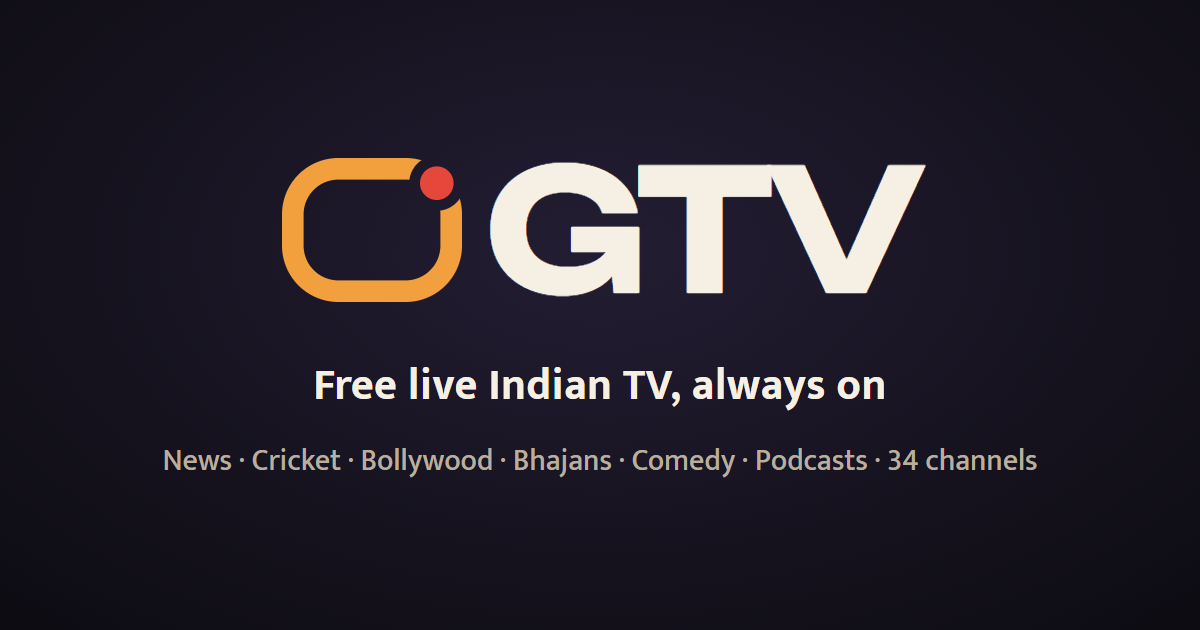
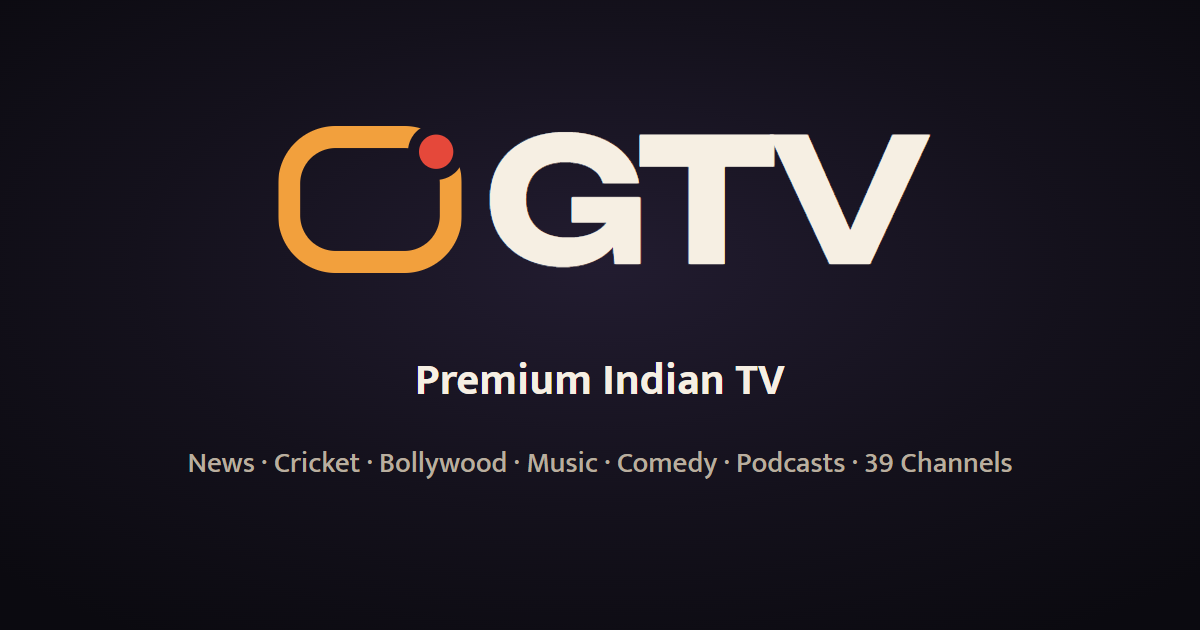
Share image: Premium Indian TV · News, Cricket, Bollywood, Music, Comedy, Podcasts, 39 Channels (versioned so link previews refresh)

Changed region(s): [[0.2158, 0.181, 0.7708, 0.4825], [0.1233, 0.6937, 0.8633, 0.754], [0.2467, 0.573, 0.74, 0.6635]]

diff --git a/tv/international-sports/index.html b/tv/international-sports/index.html
@@ -15,7 +15,7 @@
 <meta property="og:title" content="International Sports: Olympics, F1, tennis &amp; world fixtures | OGTV free Indian TV">
 <meta property="og:description" content="International Sports on OGTV: Olympics, F1, tennis &amp; world fixtures, free and always on. Videos from ATP Tour, NHL, PGA Tour and MotoGP.">
 <meta property="og:url" content="https://ogtv.thebharat.si/tv/international-sports/">
-<meta property="og:image" content="https://ogtv.thebharat.si/img/og.png">
+<meta property="og:image" content="https://ogtv.thebharat.si/img/og.png?v=2">
 <meta property="og:image:width" content="1200">
 <meta property="og:image:height" content="630">
 <meta name="twitter:card" content="summary_large_image">

diff --git a/tv/sehat/index.html b/tv/sehat/index.html
@@ -15,7 +15,7 @@
 <meta property="og:title" content="Sehat: Sports fitness, army &amp; Soviet-style training, yoga | OGTV free Indian TV">
 <meta property="og:description" content="Sehat on OGTV: sports fitness, army &amp; Soviet-style training, yoga, free and always on. Videos from Overtime Athletes, Yoga With Tim and Improved Health.">
 <meta property="og:url" content="https://ogtv.thebharat.si/tv/sehat/">
-<meta property="og:image" content="https://ogtv.thebharat.si/img/og.png">
+<meta property="og:image" content="https://ogtv.thebharat.si/img/og.png?v=2">
 <meta property="og:image:width" content="1200">
 <meta property="og:image:height" content="630">
 <meta name="twitter:card" content="summary_large_image">

diff --git a/tv/raag/index.html b/tv/raag/index.html
@@ -15,7 +15,7 @@
 <meta property="og:title" content="Raag: Sitar, santoor, classical voices &amp; Coke Studio | OGTV free Indian TV">
 <meta property="og:description" content="Raag on OGTV: sitar, santoor, classical voices &amp; Coke Studio, free and always on. Videos from Coke Studio Pakistan, Anoushka Shankar and Coke Studio India.">
 <meta property="og:url" content="https://ogtv.thebharat.si/tv/raag/">
-<meta property="og:image" content="https://ogtv.thebharat.si/img/og.png">
+<meta property="og:image" content="https://ogtv.thebharat.si/img/og.png?v=2">
 <meta property="og:image:width" content="1200">
 <meta property="og:image:height" content="630">
 <meta name="twitter:card" content="summary_large_image">

diff --git a/tv/purvaiya/index.html b/tv/purvaiya/index.html
@@ -15,7 +15,7 @@
 <meta property="og:title" content="Purvaiya: Regional news, travel, heritage &amp; folk | OGTV free Indian TV">
 <meta property="og:description" content="Purvaiya on OGTV: regional news, travel, heritage &amp; folk, free and always on. Live streams from News18 Bihar Jharkhand, Zee Bihar Jharkhand and ABP Bihar.">
 <meta property="og:url" content="https://ogtv.thebharat.si/tv/purvaiya/">
-<meta property="og:image" content="https://ogtv.thebharat.si/img/og.png">
+<meta property="og:image" content="https://ogtv.thebharat.si/img/og.png?v=2">
 <meta property="og:image:width" content="1200">
 <meta property="og:image:height" content="630">
 <meta name="twitter:card" content="summary_large_image">

diff --git a/tv/aangan/index.html b/tv/aangan/index.html
@@ -15,7 +15,7 @@
 <meta property="og:title" content="Aangan: Family TV: DD classics, KBC &amp; Taarak Mehta | OGTV free Indian TV">
 <meta property="og:description" content="Aangan on OGTV: the family TV of an Indian home, in Hindi. Aarti, Doordarshan classics, kahaniyan, kavi sammelan, wildlife, Taarak Mehta, KBC and old songs.">
 <meta property="og:url" content="https://ogtv.thebharat.si/tv/aangan/">
-<meta property="og:image" content="https://ogtv.thebharat.si/img/og.png">
+<meta property="og:image" content="https://ogtv.thebharat.si/img/og.png?v=2">
 <meta property="og:image:width" content="1200">
 <meta property="og:image:height" content="630">
 <meta name="twitter:card" content="summary_large_image">

diff --git a/tv/gym/index.html b/tv/gym/index.html
@@ -15,7 +15,7 @@
 <meta property="og:title" content="Gym: Punjabi, desi hip-hop, rap, rock &amp; phonk bangers | OGTV free Indian TV">
 <meta property="og:description" content="Gym on OGTV: Punjabi, desi hip-hop, rap, rock &amp; phonk bangers, free and always on. Videos from Greatest rock workout songs and Hyped Punjabi gym songs.">
 <meta property="og:url" content="https://ogtv.thebharat.si/tv/gym/">
-<meta property="og:image" content="https://ogtv.thebharat.si/img/og.png">
+<meta property="og:image" content="https://ogtv.thebharat.si/img/og.png?v=2">
 <meta property="og:image:width" content="1200">
 <meta property="og:image:height" content="630">
 <meta name="twitter:card" content="summary_large_image">

diff --git a/tv/classics/index.html b/tv/classics/index.html
@@ -15,7 +15,7 @@
 <meta property="og:title" content="Classics: Great films from India &amp; the world | OGTV free Indian TV">
 <meta property="og:description" content="Classics on OGTV: great films from India &amp; the world, free and always on. Videos from Shemaroo 4K Premium, Indian parallel cinema and Goldmines Bollywood.">
 <meta property="og:url" content="https://ogtv.thebharat.si/tv/classics/">
-<meta property="og:image" content="https://ogtv.thebharat.si/img/og.png">
+<meta property="og:image" content="https://ogtv.thebharat.si/img/og.png?v=2">
 <meta property="og:image:width" content="1200">
 <meta property="og:image:height" content="630">
 <meta name="twitter:card" content="summary_large_image">

diff --git a/tv/fiction/index.html b/tv/fiction/index.html
@@ -15,7 +15,7 @@
 <meta property="og:title" content="Fiction: Web series, short films &amp; DD classics | OGTV free Indian TV">
 <meta property="og:description" content="Fiction on OGTV: web series, short films &amp; DD classics, free and always on. Videos from Chanakya (1991), Ramayan (Tilak) and Upanishad Ganga (Chinmaya).">
 <meta property="og:url" content="https://ogtv.thebharat.si/tv/fiction/">
-<meta property="og:image" content="https://ogtv.thebharat.si/img/og.png">
+<meta property="og:image" content="https://ogtv.thebharat.si/img/og.png?v=2">
 <meta property="og:image:width" content="1200">
 <meta property="og:image:height" content="630">
 <meta name="twitter:card" content="summary_large_image">

diff --git a/index.html b/index.html
@@ -14,7 +14,7 @@
 <meta property="og:title" content="OGTV: free live Indian TV online, news, cricket, Bollywood &amp; bhajans">
 <meta property="og:description" content="Watch 39 free, always-on Indian TV channels in Hindi and English: live news, cricket, Olympic sport, Bollywood, bhajans, KBC, Taarak Mehta and documentaries.">
 <meta property="og:url" content="https://ogtv.thebharat.si/">
-<meta property="og:image" content="https://ogtv.thebharat.si/img/og.png">
+<meta property="og:image" content="https://ogtv.thebharat.si/img/og.png?v=2">
 <meta property="og:image:width" content="1200">
 <meta property="og:image:height" content="630">
 <meta name="twitter:card" content="summary_large_image">

diff --git a/tv/festivals/index.html b/tv/festivals/index.html
@@ -15,7 +15,7 @@
 <meta property="og:title" content="Festivals: Festival songs, folk &amp; bhajans | OGTV free Indian TV">
 <meta property="og:description" content="Festivals on OGTV: each festival in its own tradition. Garba, Chhath geet, Gurbani, Braj Holi, qawwali, carols and bhajans, with the film favourites.">
 <meta property="og:url" content="https://ogtv.thebharat.si/tv/festivals/">
-<meta property="og:image" content="https://ogtv.thebharat.si/img/og.png">
+<meta property="og:image" content="https://ogtv.thebharat.si/img/og.png?v=2">
 <meta property="og:image:width" content="1200">
 <meta property="og:image:height" content="630">
 <meta name="twitter:card" content="summary_large_image">

diff --git a/tv/khel/index.html b/tv/khel/index.html
@@ -15,7 +15,7 @@
 <meta property="og:title" content="Khel: Olympics, Asian Games &amp; Indian sport | OGTV free Indian TV">
 <meta property="og:description" content="Khel on OGTV: Olympics, Asian Games &amp; Indian sport, free and always on. Videos from Paralympic Games, Hockey India League and ChessBase India.">
 <meta property="og:url" content="https://ogtv.thebharat.si/tv/khel/">
-<meta property="og:image" content="https://ogtv.thebharat.si/img/og.png">
+<meta property="og:image" content="https://ogtv.thebharat.si/img/og.png?v=2">
 <meta property="og:image:width" content="1200">
 <meta property="og:image:height" content="630">
 <meta name="twitter:card" content="summary_large_image">

diff --git a/tv/safar/index.html b/tv/safar/index.html
@@ -15,7 +15,7 @@
 <meta property="og:title" content="Safar: Travel, India &amp; the world | OGTV free Indian TV">
 <meta property="og:description" content="Safar on OGTV: travel, India &amp; the world, free and always on. Videos from Incredible India, Beautiful Destinations, Mountain Trekker and Visa2explore.">
 <meta property="og:url" content="https://ogtv.thebharat.si/tv/safar/">
-<meta property="og:image" content="https://ogtv.thebharat.si/img/og.png">
+<meta property="og:image" content="https://ogtv.thebharat.si/img/og.png?v=2">
 <meta property="og:image:width" content="1200">
 <meta property="og:image:height" content="630">
 <meta name="twitter:card" content="summary_large_image">
